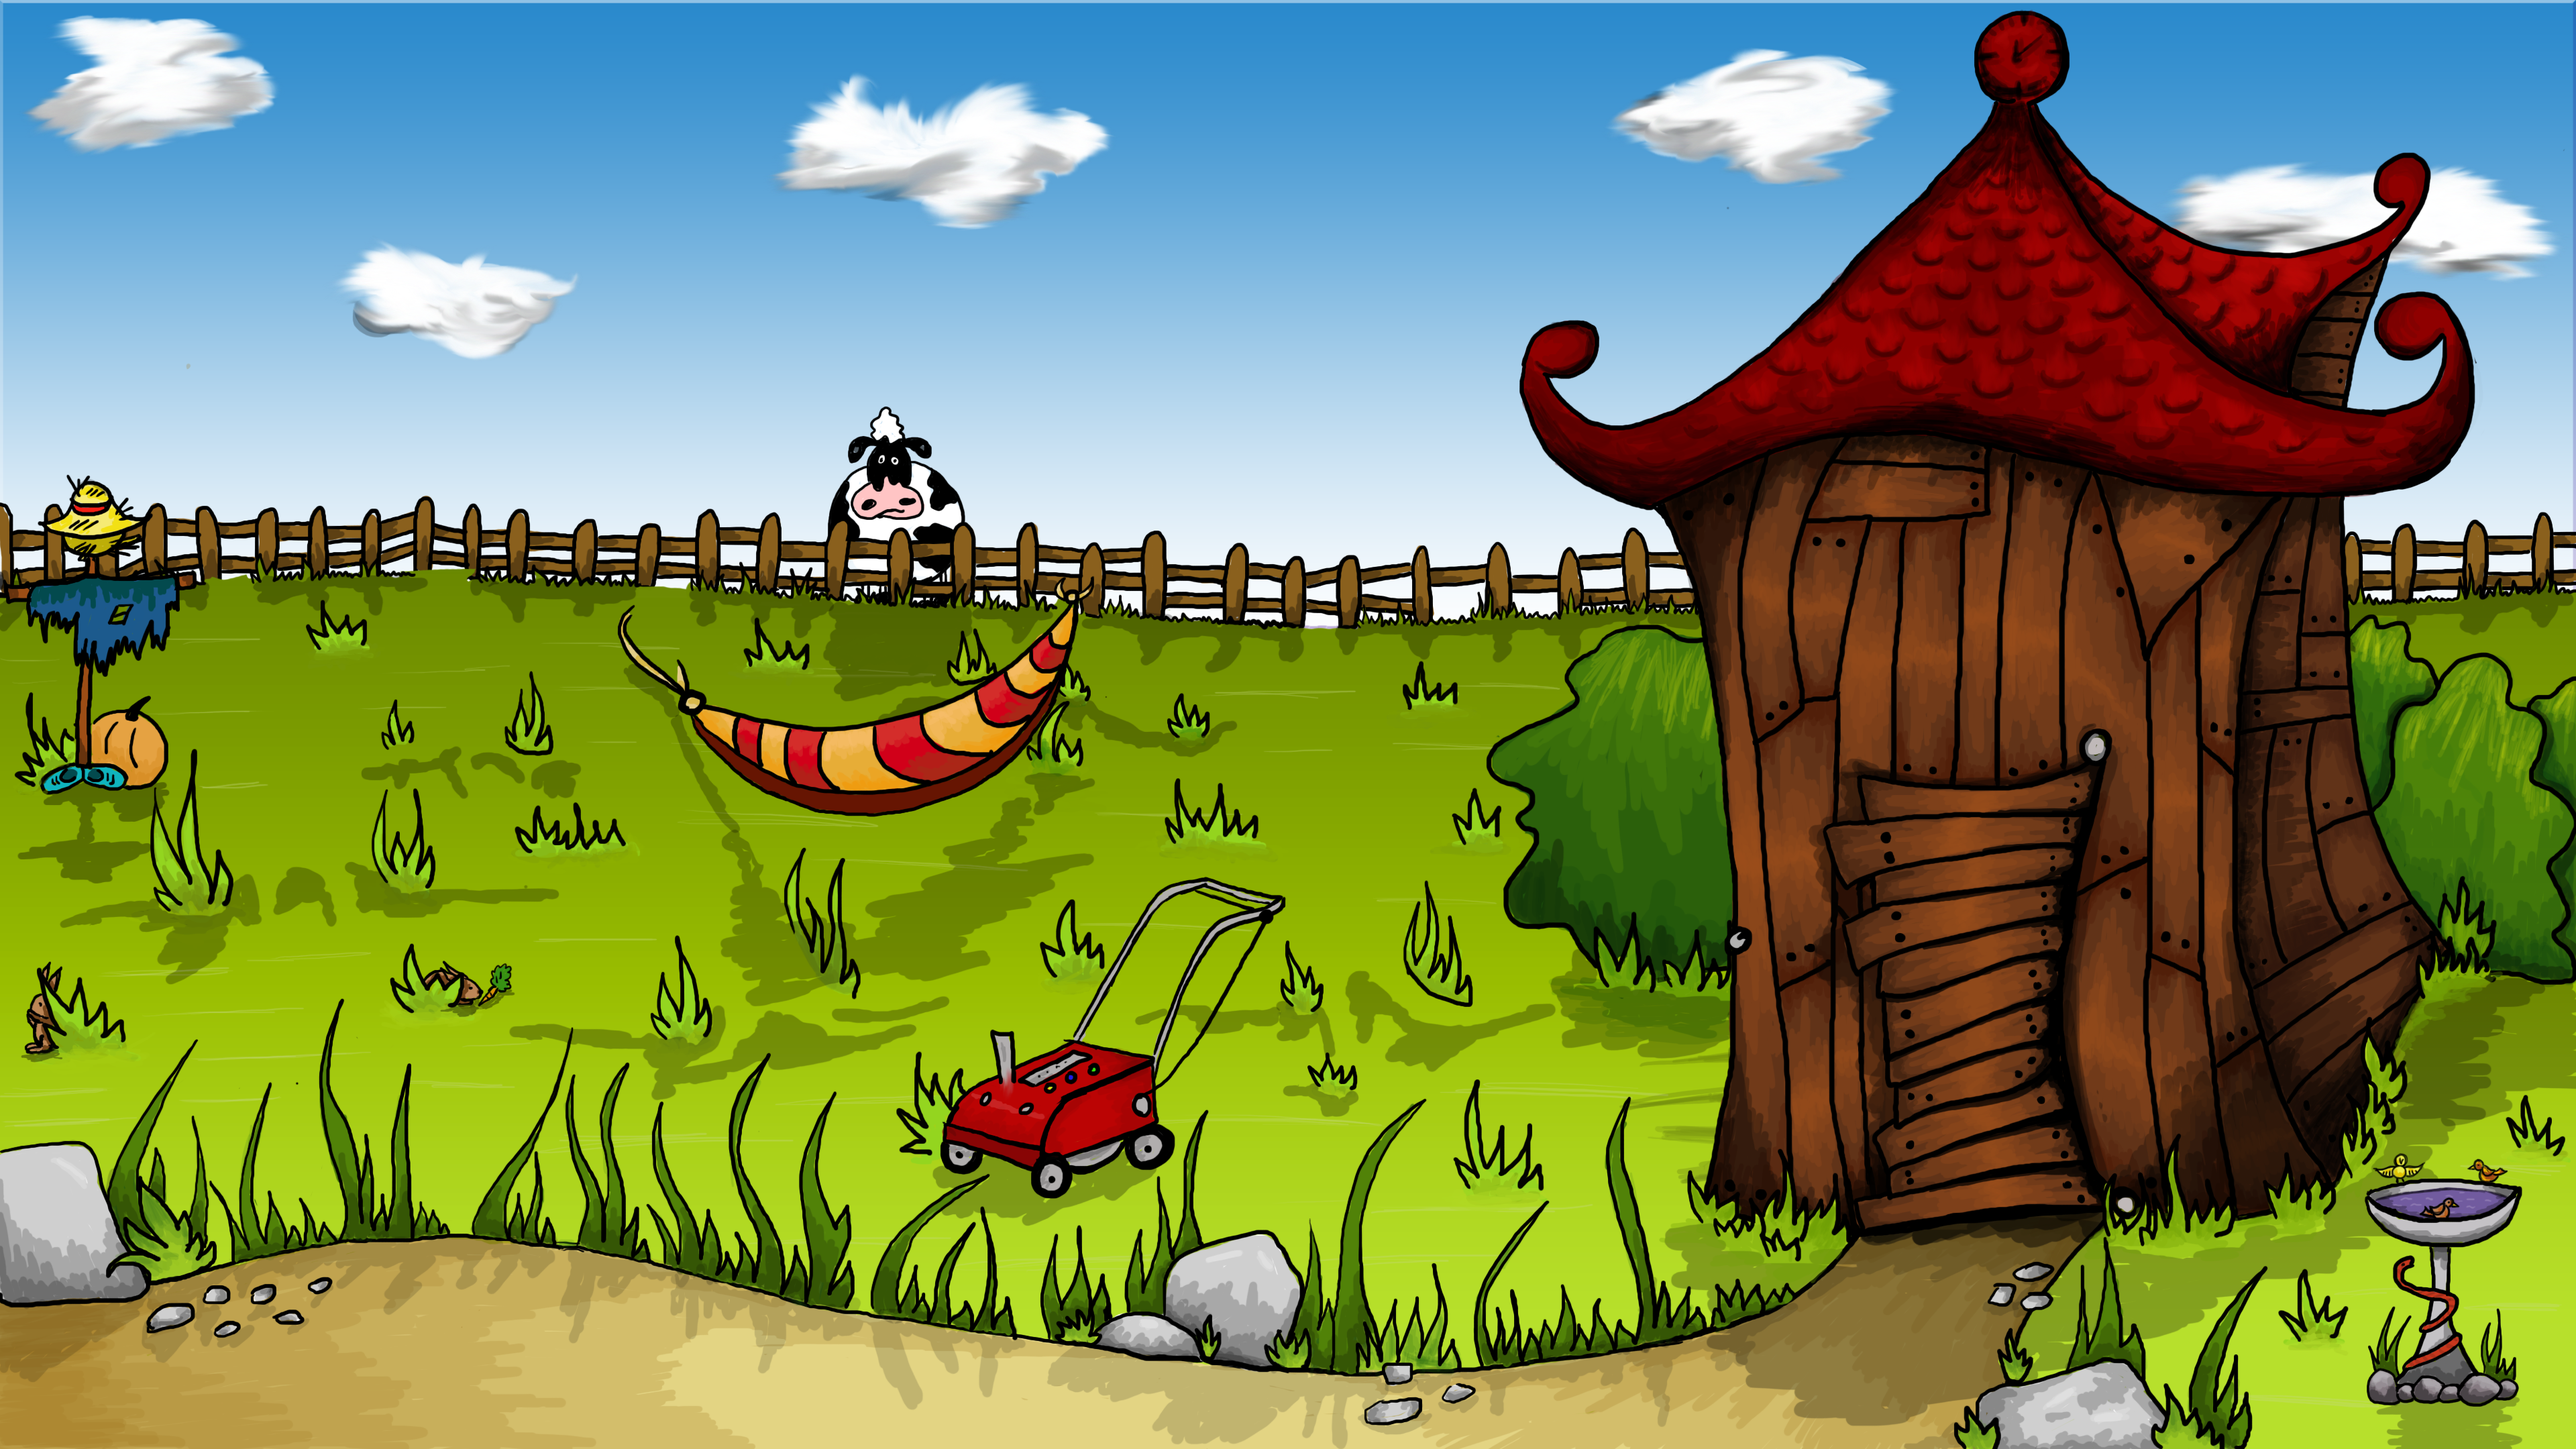
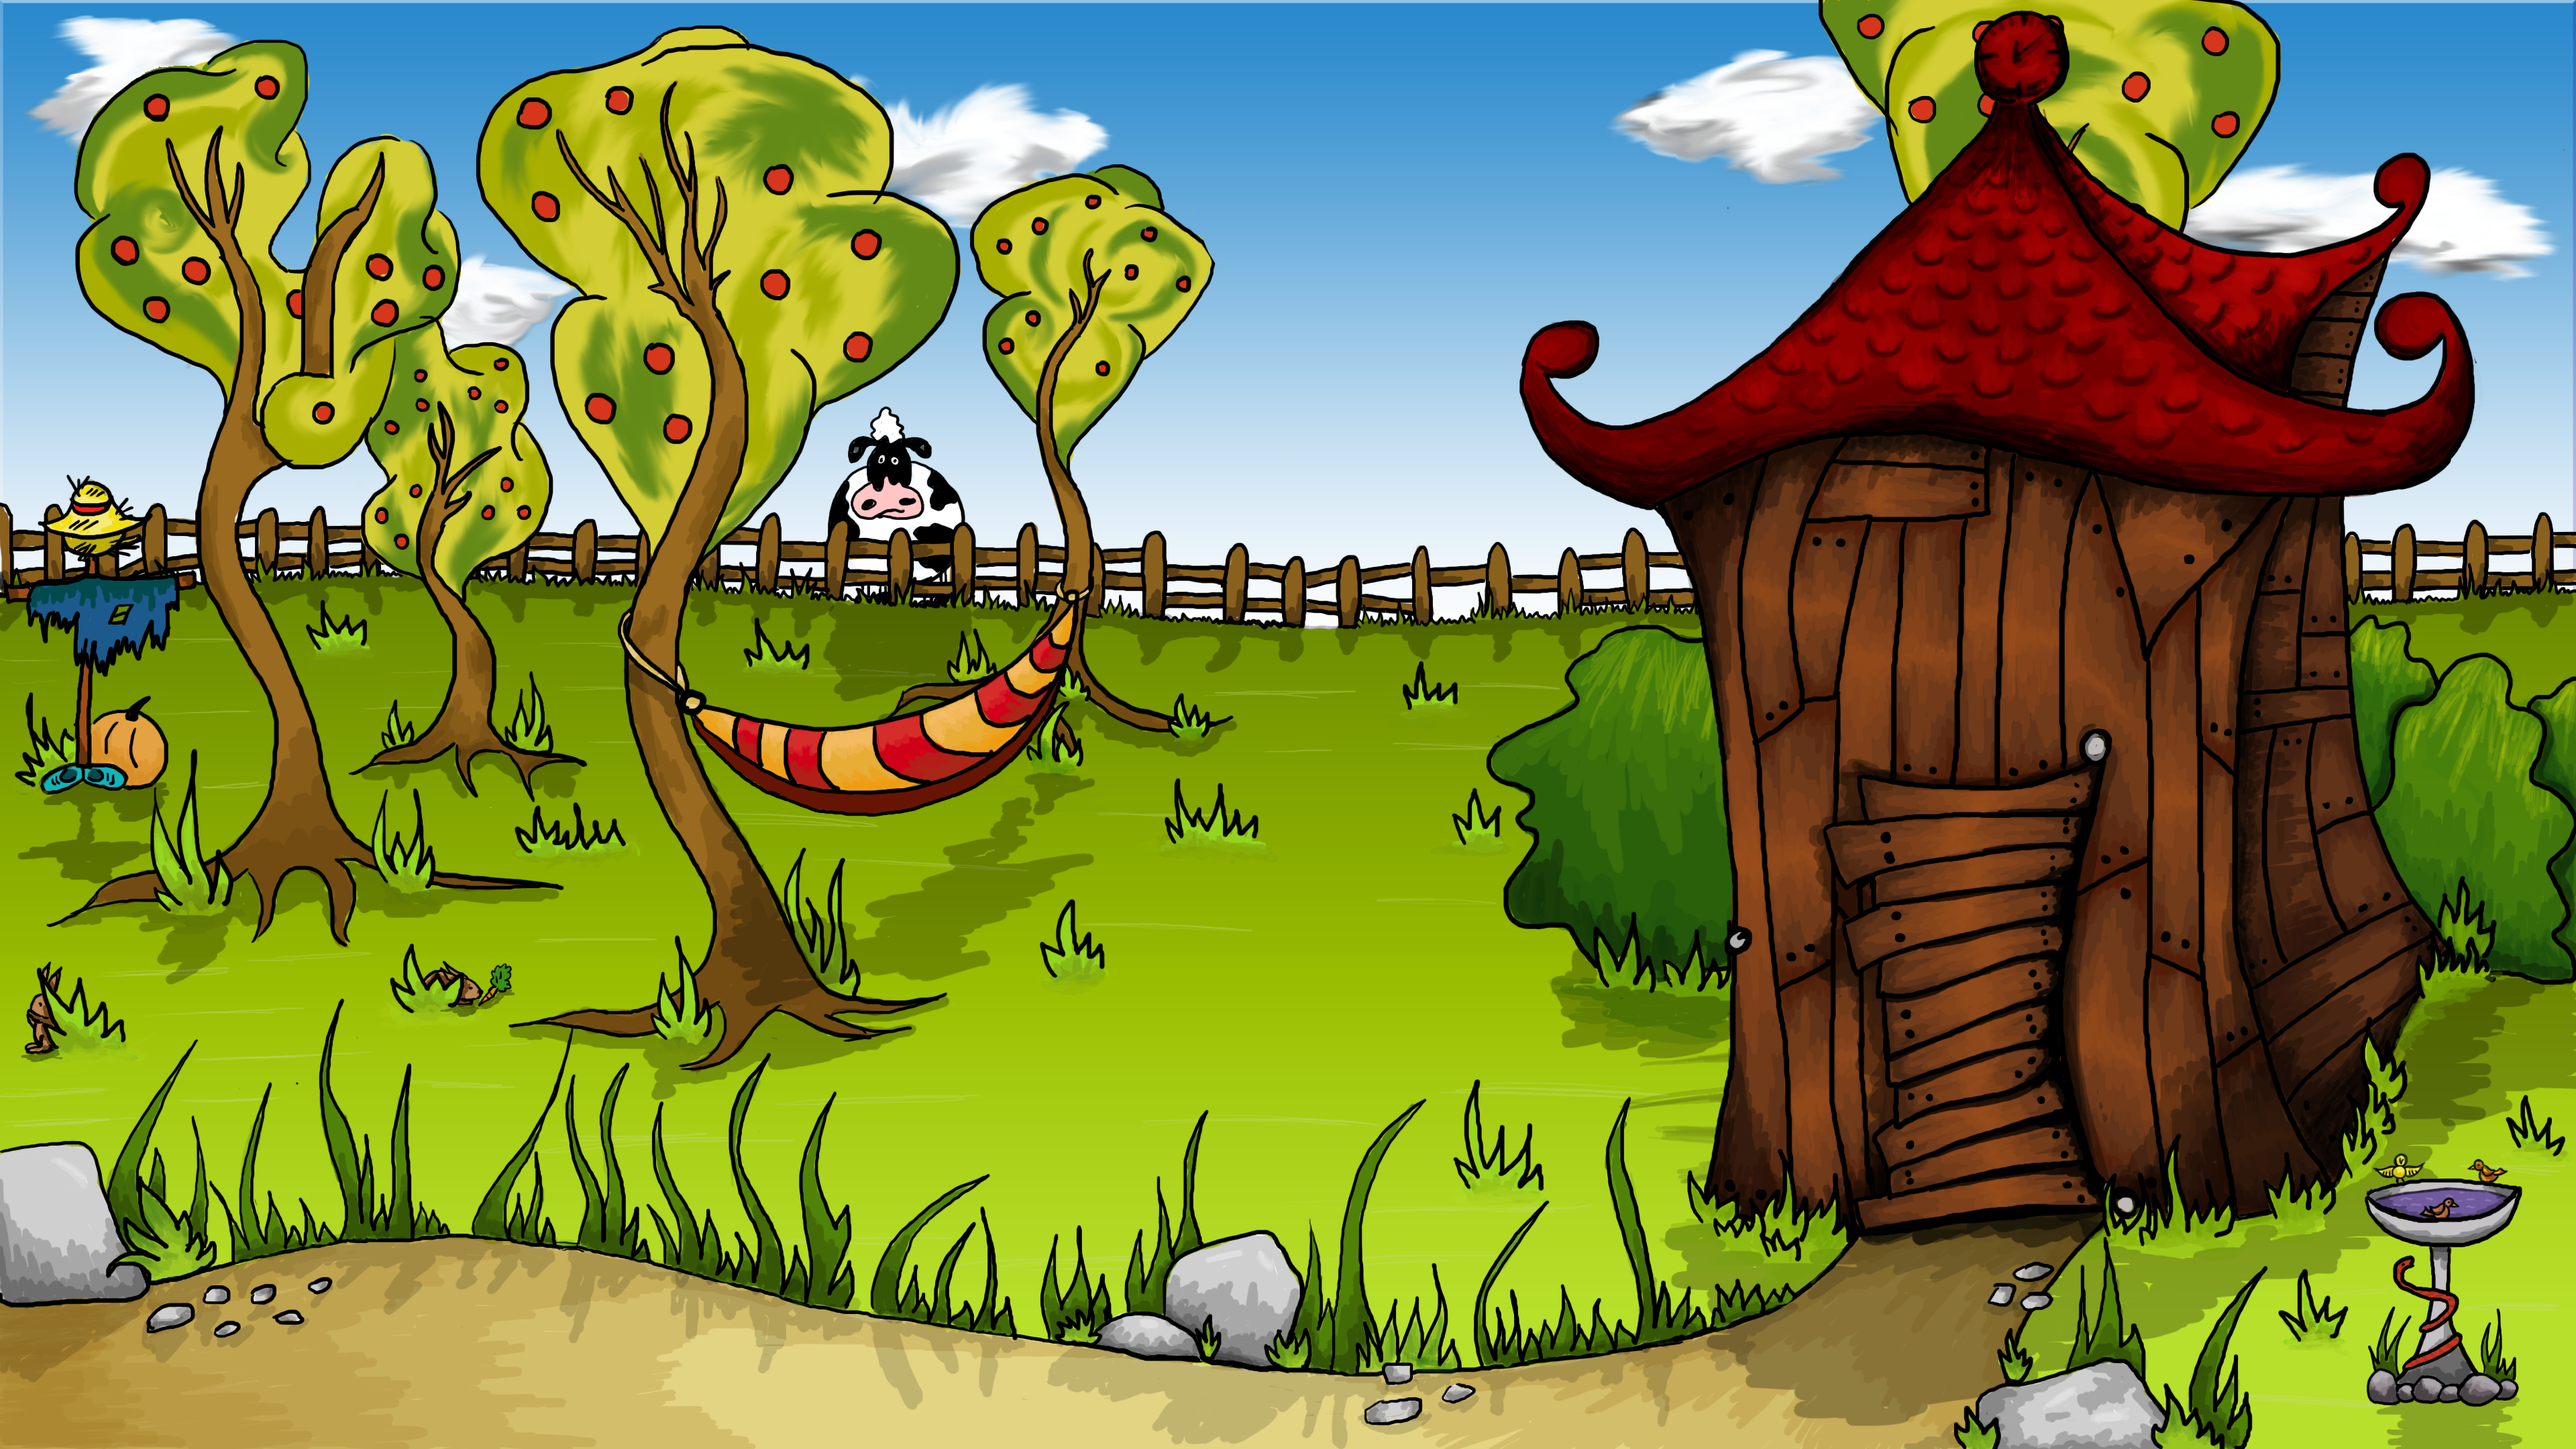
it's something

diff --git a/cpp/Character.cpp b/cpp/Character.cpp
@@ -1,8 +1,8 @@
 #include "../h/Character.h"
 
 /* constructors */
-Character::Character(const string &name, const int &width, const int &height, const int &x, const int &y, const string &texturePath, const float &speed)
-	: ScreenObject(name, width, height, x, y, texturePath), target(x, y), speed(speed) {
+Character::Character(const string &name, const int &width, const int &height, const int &x, const int &y, const string &texturePath, const float &speed, float pivotX, float pivotY, float hitboxWidth, float hitboxHeight)
+	: ScreenObject(name, width, height, x, y, texturePath, pivotX, pivotY, hitboxWidth, hitboxHeight), target(x, y), speed(speed) {
 }
 
 /* setters */
@@ -35,7 +35,10 @@ void Character::tick() { /* If Charactr is in movement this function is called t
 	Position distance = this->target - this->position;
     Position fak( (distance.getX() > 0) ? 1 : -1 , (distance.getY() > 0) ? 1 : -1 );
 	/* pretend flickering and check for horizontal stop on screen */
-	if(distance.getMagnitude() < 2 || (this->position.getY() - this->screen->getStopY() < 0.5 && fak.getY() == -1)){
+	if(
+            this->collidesWithSomething(this->position.getX() + (float(distance.getX()) / distance.getMagnitude() * this->speed),
+                this->position.getY() + (float(distance.getY()) / distance.getMagnitude() * this->speed))
+        || distance.getMagnitude() < 2 || (this->position.getY() - this->screen->getStopY() < 0.5 && fak.getY() == -1)){
 		this->stopRunning();
 		return;
 	}
@@ -56,4 +59,11 @@ void Character::startRunning() {
 void Character::stopRunning() {
 	this->getActiveAnimation()->stopRunning();
 	this->target = this->position;
+}
+
+bool Character::collidesWithSomething(float x, float y) const {
+    for (auto obj: this->screen->getScreenObjects())
+        if (obj->collides(x, y))
+            return true;
+    return false;
 }

diff --git a/cpp/ScreenObject.cpp b/cpp/ScreenObject.cpp
@@ -2,8 +2,8 @@
 
 using namespace std;
 /* Constructors */
-ScreenObject::ScreenObject(const string &name, const int &width, const int &height, const int &x, const int &y, const string &texturePath)
-	: name(name), size(width, height), position(x, y), pivot(0.5, 0.9), screen(NULL) {
+ScreenObject::ScreenObject(const string &name, const int &width, const int &height, const int &x, const int &y, const string &texturePath, float pivotX, float pivotY, float hitboxWidth, float hitboxHeight)
+	: name(name), size(width, height), position(x, y), pivot(pivotX, pivotY), hitbox(hitboxWidth, hitboxHeight), screen(NULL) {
 	this->animations.push_back(Animation("", texturePath, 60, this));
 	this->setDefaultAnimation();
 }
@@ -14,6 +14,9 @@ void ScreenObject::setDefaultAnimation() {
 }
 
 /* setter */
+void ScreenObject::setHitbox(float width, float height) {
+    this->hitbox.setXY(width, height);
+}
 void ScreenObject::addAnimation(Animation animation) {
 	this->animations.push_back(animation);
 	animation.addScreenObject(this);
@@ -77,4 +80,18 @@ float ScreenObject::getPivotY() const {
 }
 Screen* ScreenObject::getScreen() const {
 	return this->screen;
+}
+
+
+/* other methods */
+bool ScreenObject::greaterThan(ScreenObject* a, ScreenObject* b) {
+    return (a->getPosY() < b->getPosY());
+}
+
+bool ScreenObject::collides(float x, float y) const{
+    return (x > this->getPosX() - this->hitbox.getX() / 2
+         && x < this->getPosX() + this->hitbox.getX() / 2
+         && y > this->getPosY() - this->hitbox.getY() / 2
+         && y < this->getPosY() + this->hitbox.getY() / 2
+         );
 }

diff --git a/h/ScreenObject.h b/h/ScreenObject.h
@@ -22,10 +22,11 @@ protected:
     Position pivot;
     Position size;
     Position renderSize;
+    Position hitbox;
 	Screen* screen;
 
 public:
-	ScreenObject(const string &name, const int &width, const int &height, const int &x, const int &y, const string &texturePath);
+	ScreenObject(const string &name, const int &width, const int &height, const int &x, const int &y, const string &texturePath, float pivotX = 0, float pivotY = 0, float hitboxWidth = 0, float hitboxHeight = 0);
 
 	void addAnimation(Animation animation);
 	void addAnimation(const string &texturePath, int speed = 60);
@@ -35,6 +36,7 @@ public:
 	void setName(const string &name);
 	void setScreen(Screen* screen);
     void setPivot(const float &x, const float &y);
+    void setHitbox(float width, float height);
 
 	Animation* getActiveAnimation() const;
 	string getName() const;
@@ -47,6 +49,9 @@ public:
     float getPivotX() const;
     float getPivotY() const;
 	Screen* getScreen() const;
+
+    static bool greaterThan(ScreenObject* a, ScreenObject* b);
+    bool collides(float x, float y) const;
 };
 
 #endif	/* SCREENOBJECT_H */

diff --git a/cpp/main.cpp b/cpp/main.cpp
@@ -7,15 +7,18 @@
 
 int main(int argc, char** argv) {
 	Screen screen("Wald", 1280, 800, 300, 0.5, "screens/garden.png");
-	Character strichmann("Strichmann", 100, 200, 100, 500, "characters/strichmann.png", 2);
-    ScreenObject baum("Baum", 647, 1507, 700, 400, "sprites/tree1.png");
-    strichmann.setPivot(0.4,0.95);
-    baum.setPivot(0.4,0.95);
+
+	Character strichmann("Strichmann", 100, 200, 100, 500, "characters/strichmann.png", 2, 0.4, 0.95);
 	strichmann.getActiveAnimation()->addImage("characters/strichmann1.png");
 	strichmann.getActiveAnimation()->addImage("characters/strichmann2.png");
+
+    ScreenObject tree("Tree", 300, 699, 650, 580, "sprites/tree1.png", 0.5, 0.85, 150, 30);
+    ScreenObject mower("Mover", 222, 200, 450, 650, "sprites/mower.png", 0.3,0.85, 100, 50);
+
 	screen.addScreenObject(&strichmann);
 	screen.addPlayer(&strichmann);
-    screen.addScreenObject(&baum);
+    screen.addScreenObject(&tree);
+    screen.addScreenObject(&mower);
 
 	Graphics graphics(&screen);
 	graphics.run();

diff --git a/h/Character.h b/h/Character.h
@@ -16,7 +16,7 @@ class Character : public ScreenObject {
 	Position target;
 	float speed;
 public:
-	Character(const string &name, const int &width, const int &height, const int &x, const int &y, const string &texturePath, const float &speed = 1);
+	Character(const string &name, const int &width, const int &height, const int &x, const int &y, const string &texturePath, const float &speed = 1, float pivotX = 0, float pivotY = 0, float hitboxWidth = 0, float hitboxHeight = 0);
 
 	void setPosition(const Position &osition);
 	void setPosition(const float &x, const float &y);
@@ -29,6 +29,7 @@ public:
 	void tick();
 	void startRunning();
 	void stopRunning();
+    bool collidesWithSomething(float x, float y) const;
 };
 
 #endif	/* CHARACTER_H */

diff --git a/cpp/Graphics.cpp b/cpp/Graphics.cpp
@@ -28,7 +28,7 @@ Graphics::Graphics(Screen* screen) : screen(screen) {
 void Graphics::draw() {
 	this->clear();
 	this->drawBackground();
-	//this->screen->getPlayer()->tick();
+    this->screen->sortScreenObjects();
 	for(auto object: this->screen->getScreenObjects())
 		this->drawScreenObject(object);
 	this->present();

diff --git a/cpp/Screen.cpp b/cpp/Screen.cpp
@@ -54,3 +54,9 @@ vector<ScreenObject*> Screen::getScreenObjects() const {
 string Screen::getBackgroundPath() const {
 	return this->backgroundPath;
 }
+
+/* other methods */
+
+void Screen::sortScreenObjects() {
+    sort(this->screenObjects.begin(), this->screenObjects.end(), ScreenObject::greaterThan);
+}

diff --git a/h/Screen.h b/h/Screen.h
@@ -43,6 +43,8 @@ public:
 	Character* getPlayer() const;
 	vector<ScreenObject*> getScreenObjects() const;
 	string getBackgroundPath() const;
+
+    void sortScreenObjects();
 };
 
 #endif	/* SCREEN_H */
